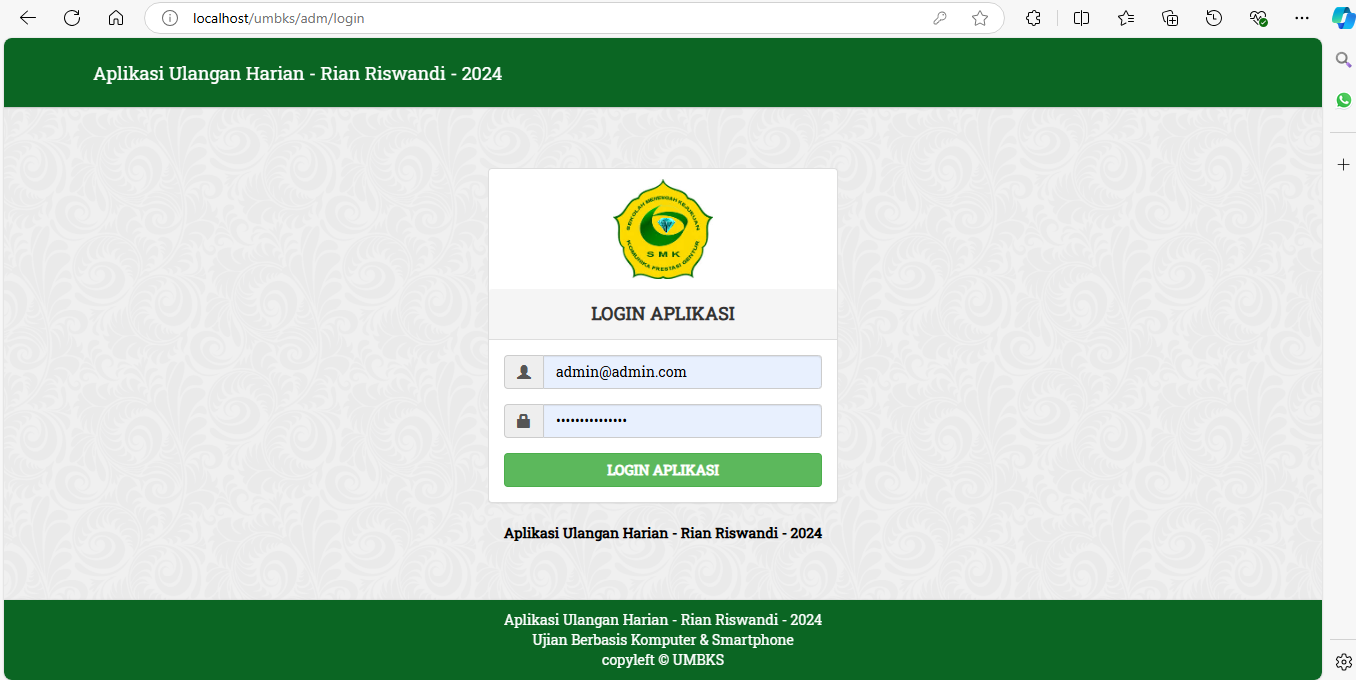
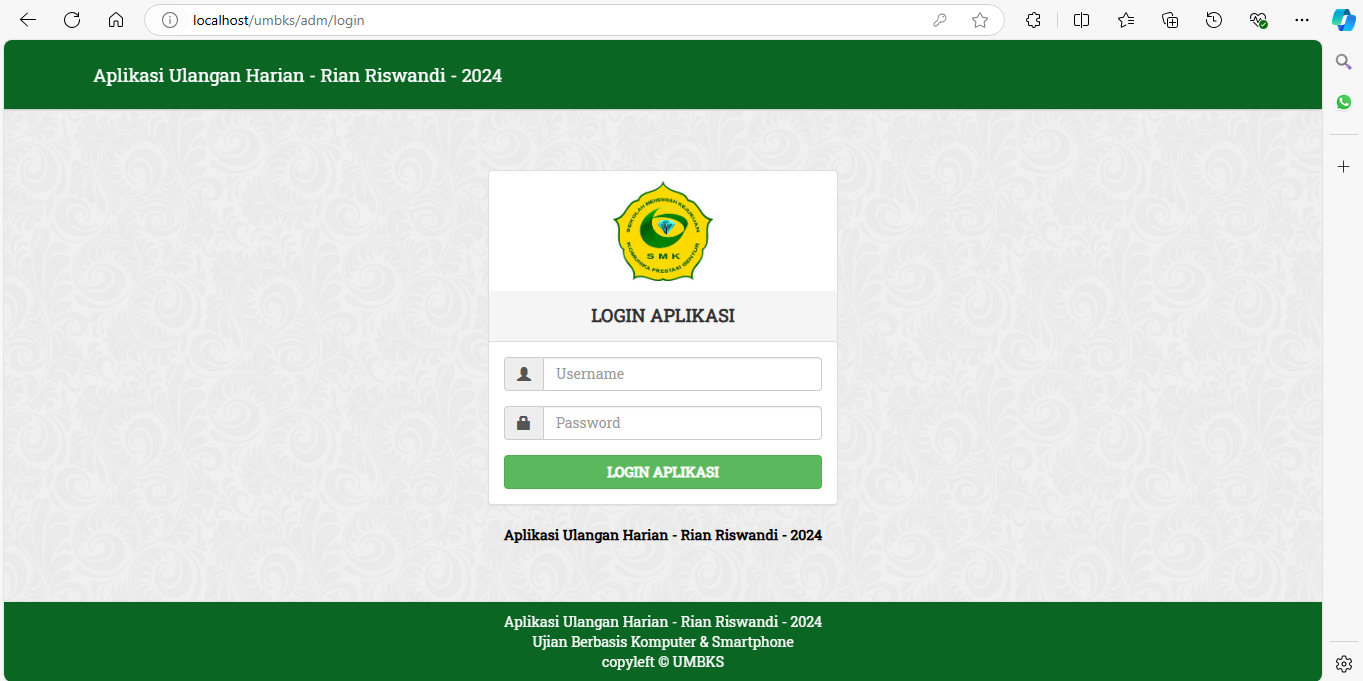
Edit Isi README

diff --git a/README.md b/README.md
@@ -1,7 +1,13 @@
 # Ujian-Online-Web
+<p>Username $ Password ada di bawah</p>
 <img src="https://github.com/rian-98/Ujian-Online-Web/blob/main/01.png">
-
+<img src="https://github.com/rian-98/Ujian-Online-Web/blob/main/02.png">
 <h1>System Requirement :</h1>
+<hr>
 <li>XAMPP</li>
 <li>PHP Version : 5.6 or Lates</li>
-
+<hr>
+<h1>Login</h1>
+<li>Username : admin</li>
+<li>Password : smkbisa</li>
+<p><i><b>*Notes : Jika Password salah, coba dengan "madrasahbisa"</b></i></p>
